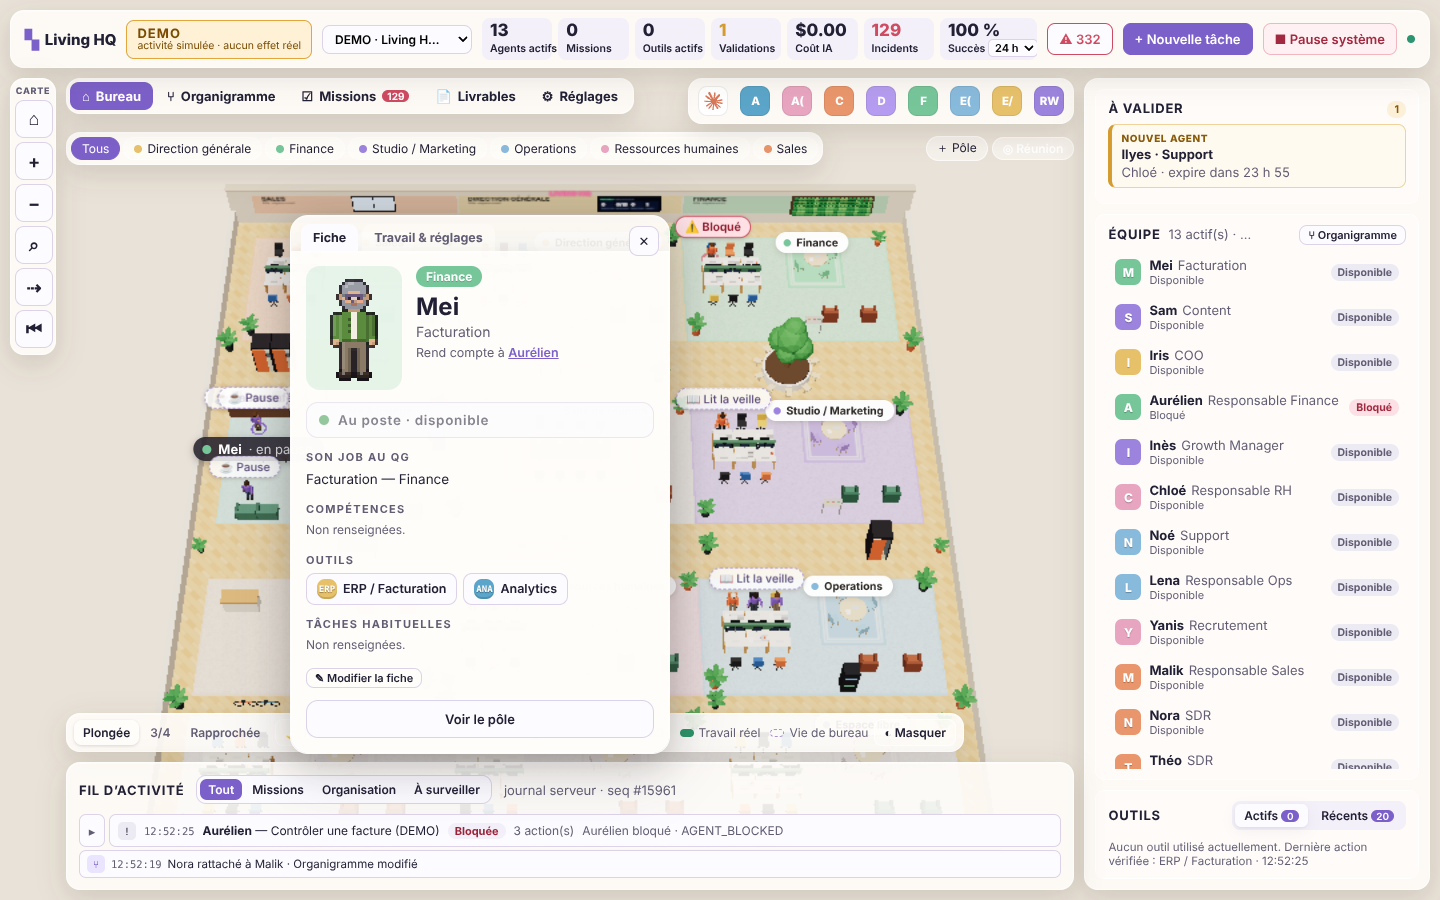
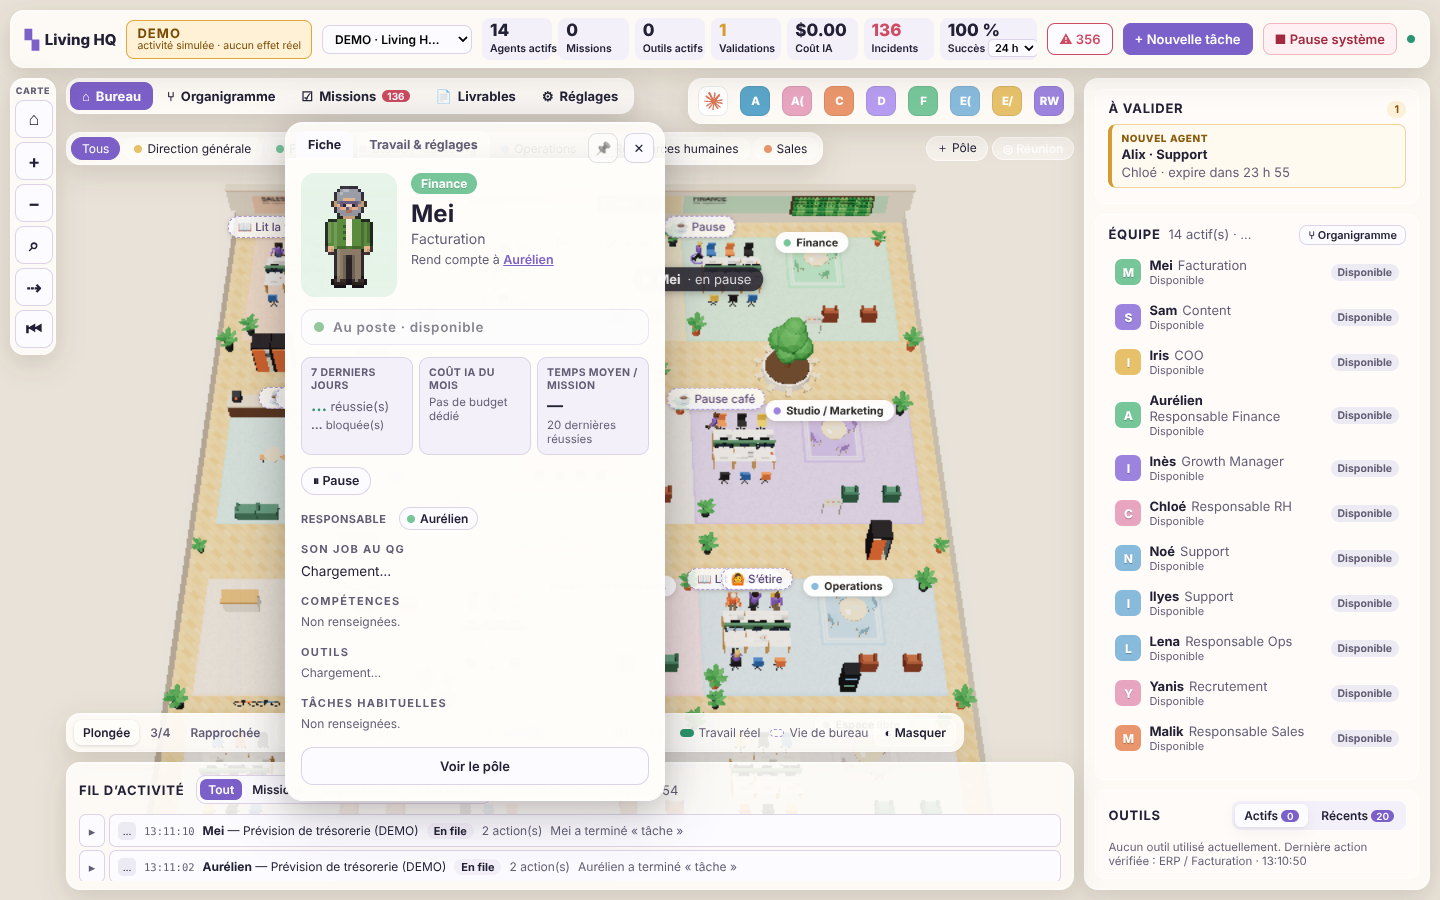
Fiche agent immobile pendant l'utilisation ; nettoyage e2e S05 robuste
Claude-Session: https://claude.ai/code/session_01DsWanc4oZCj3FsQZvrfyLX

diff --git a/tests/e2e/hq.spec.ts b/tests/e2e/hq.spec.ts
@@ -264,11 +264,19 @@ test('S05 — RH propose un agent, l’admin approuve depuis le cockpit, l’age
   // Nettoyage : désactiver la recrue libère son poste (sinon les exécutions répétées remplissent le QG).
   const hired = (await agentIds()).filter((id) => !beforeIds.has(id));
   expect(hired).toHaveLength(1);
-  const res = await page.request.post(`${API}/v1/agents/${hired[0]}/deactivate`, {
-    headers: { 'idempotency-key': crypto.randomUUID() },
-    data: { reason: 'Nettoyage e2e S05' },
-  });
-  expect(res.status()).toBe(200);
+  // La recrue peut être en pleine mission (pilote automatique) : on réessaie jusqu'à ce qu'elle soit libre.
+  await expect
+    .poll(
+      async () =>
+        (
+          await page.request.post(`${API}/v1/agents/${hired[0]}/deactivate`, {
+            headers: { 'idempotency-key': crypto.randomUUID() },
+            data: { reason: 'Nettoyage e2e S05' },
+          })
+        ).status(),
+      { timeout: 20_000, intervals: [1000] },
+    )
+    .toBe(200);
 });
 
 test('S06 — réunion réelle : participants, décisions et tâche déléguée visibles', async ({

diff --git a/apps/web/src/components/cockpit/AgentPopover.tsx b/apps/web/src/components/cockpit/AgentPopover.tsx
@@ -69,6 +69,8 @@ export function AgentPopover({
   toast: (t: { text: string; tone: 'info' | 'danger' | 'success' }) => void;
 }) {
   const [tab, setTab] = useState<'card' | 'work'>('card');
+  const tabRef = useRef(tab);
+  tabRef.current = tab;
   const box = useRef<HTMLDivElement>(null);
   const [version, setVersion] = useState(0);
   const [remote, setRemote] = useState<Remote | null>(null);
@@ -98,6 +100,15 @@ export function AgentPopover({
     let raf = 0;
     const place = (): void => {
       const el = box.current;
+      // Fiche immobile pendant qu'on s'en sert (survol, saisie, réglages) : les boutons ne bougent pas.
+      if (
+        el &&
+        el.style.opacity === '1' &&
+        (el.matches(':hover') || el.contains(document.activeElement) || tabRef.current === 'work')
+      ) {
+        raf = requestAnimationFrame(place);
+        return;
+      }
       const pane = el?.parentElement;
       const canvas = pane?.querySelector<HTMLCanvasElement>('[data-testid="world-canvas"] canvas');
       if (el && pane && canvas) {
